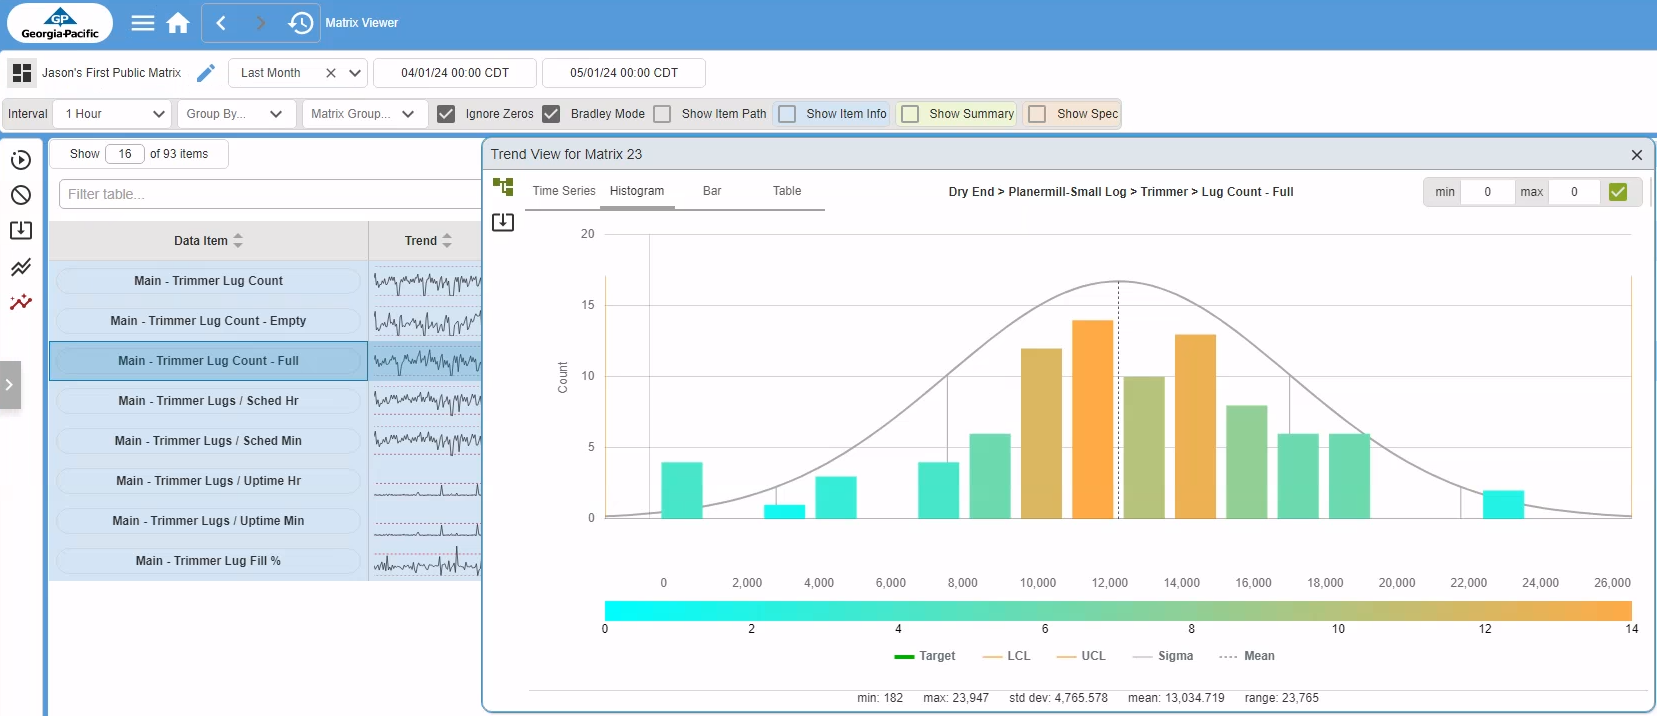
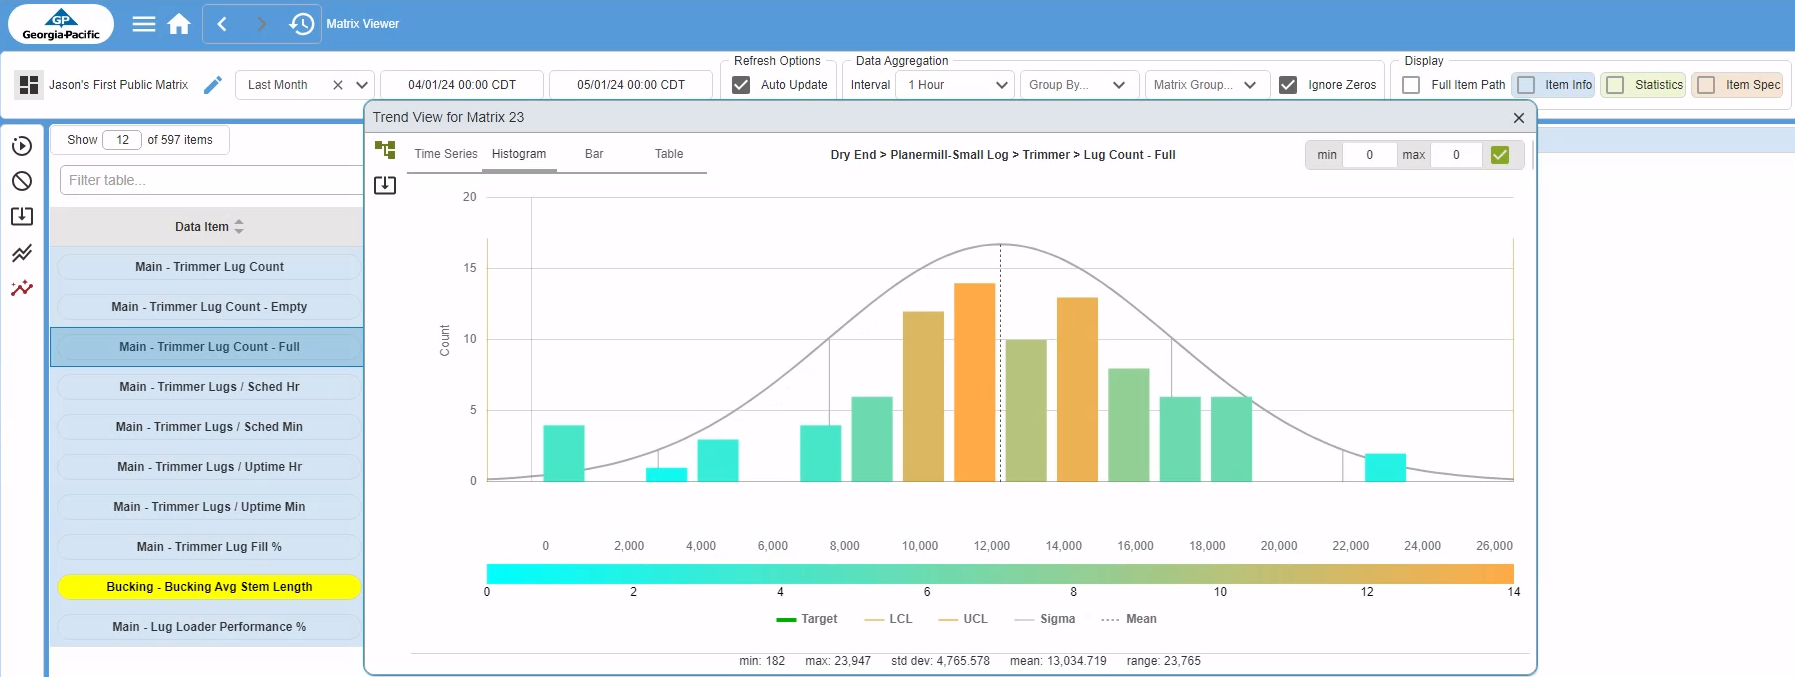
KPI matrix - update to latest images and functionality

diff --git a/docs/kanoa-ops-analysis/kpi-matrix.md b/docs/kanoa-ops-analysis/kpi-matrix.md
@@ -94,15 +94,14 @@ In the KPI Matrix view - you will be able to see the data from the selected Tags
 - Matrix Selector - select the Matrix to be presented.  Use the search function to search in folders.
 - Data period - select the time period for the data to be presented - choices are today, yesterday, this week, last week, this month, etc.  Or set a custom time period.  Set the start date and time and end date and time.
 - Data Interval - select the data interval for the aggregated data.  The data is aggregated in intervals of 1 hr, 30 mins, 15 mins
-- Group by Shift or Run - this to sort by a specific Shift or Run.
+- Group by Shift, Run or Crew - this to sort by a specific Shift, Run or Crew.
 - Group by Matrix Group. This can be utilized if the Matrix data is organized by separate Matrix groups.
 - Ignore Zeros - when this is checked, zero values will be ignored.  If all values for a tag are zero, the tag will not be displayed.
-- Bradley Mode - automatically yodate the table data whenever a filter parameter changes.
-- Auto Refresh - this will automatically update the data table every 5 minutes when checked.
-- Item Path - this will show the full data path when checked
+- Refresh Options / Auto Update - automatically update the table data whenever a filter parameter changes.
+- Full Item Path - this will show the full data path when checked
 - Item Info - this will show the data source (tag, calculation) and default aggregation mode when enabled.
-- Statistical Summary - summarized values for the chosen data will be presented when enabled.
-- MES Specs - when enabled this will show the data items specifications set for control limits, LCL and UCL.  When no limits are set, they are calculated from data values.
+- Statistics - summarized values for the chosen data will be presented when enabled.
+- Item Spec - when enabled this will show the data item specifications set for control limits, LCL and UCL.  When no limits are set, they are calculated from data values.
 
 ### Alerts
 - KPI Matrix data alerts - alerts are set when data are outside calculated or spec control limits.  Data values outside limits are color coded in the table.
